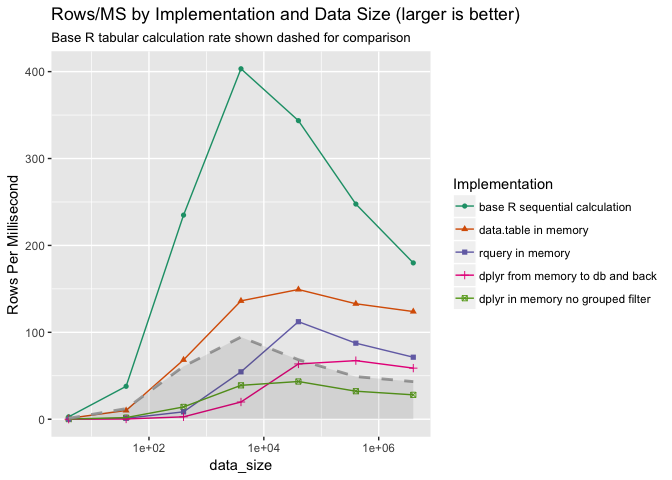
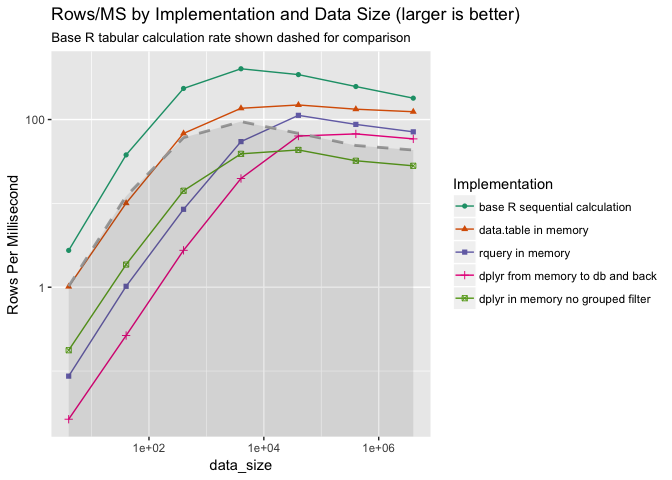
re-render

diff --git a/extras/QTimingFollowup/plotexample.md b/extras/QTimingFollowup/plotexample.md
@@ -121,6 +121,7 @@ ggplot(data=compsF, aes(x=data_size, y=data_size/durationMS,
             color=baseline_color, alpha=0.1, size=0) +
   scale_x_log10() + ylab("Rows Per Millisecond") +
   #facet_wrap(~gp, ncol=1)  + 
+  scale_y_log10() +
   scale_color_brewer("Implementation", palette="Dark2") + 
   scale_shape_discrete("Implementation") + 
   ggtitle("Rows/MS by Implementation and Data Size (larger is better)", 

diff --git a/extras/QTimingFollowup/plotexample3.md b/extras/QTimingFollowup/plotexample3.md
@@ -121,6 +121,7 @@ ggplot(data=compsF, aes(x=data_size, y=data_size/durationMS,
             color=baseline_color, alpha=0.1, size=0) +
   scale_x_log10() + ylab("Rows Per Millisecond") +
   #facet_wrap(~gp, ncol=1)  + 
+  scale_y_log10() +
   scale_color_brewer("Implementation", palette="Dark2") + 
   scale_shape_discrete("Implementation") + 
   ggtitle("Rows/MS by Implementation and Data Size (larger is better)", 
